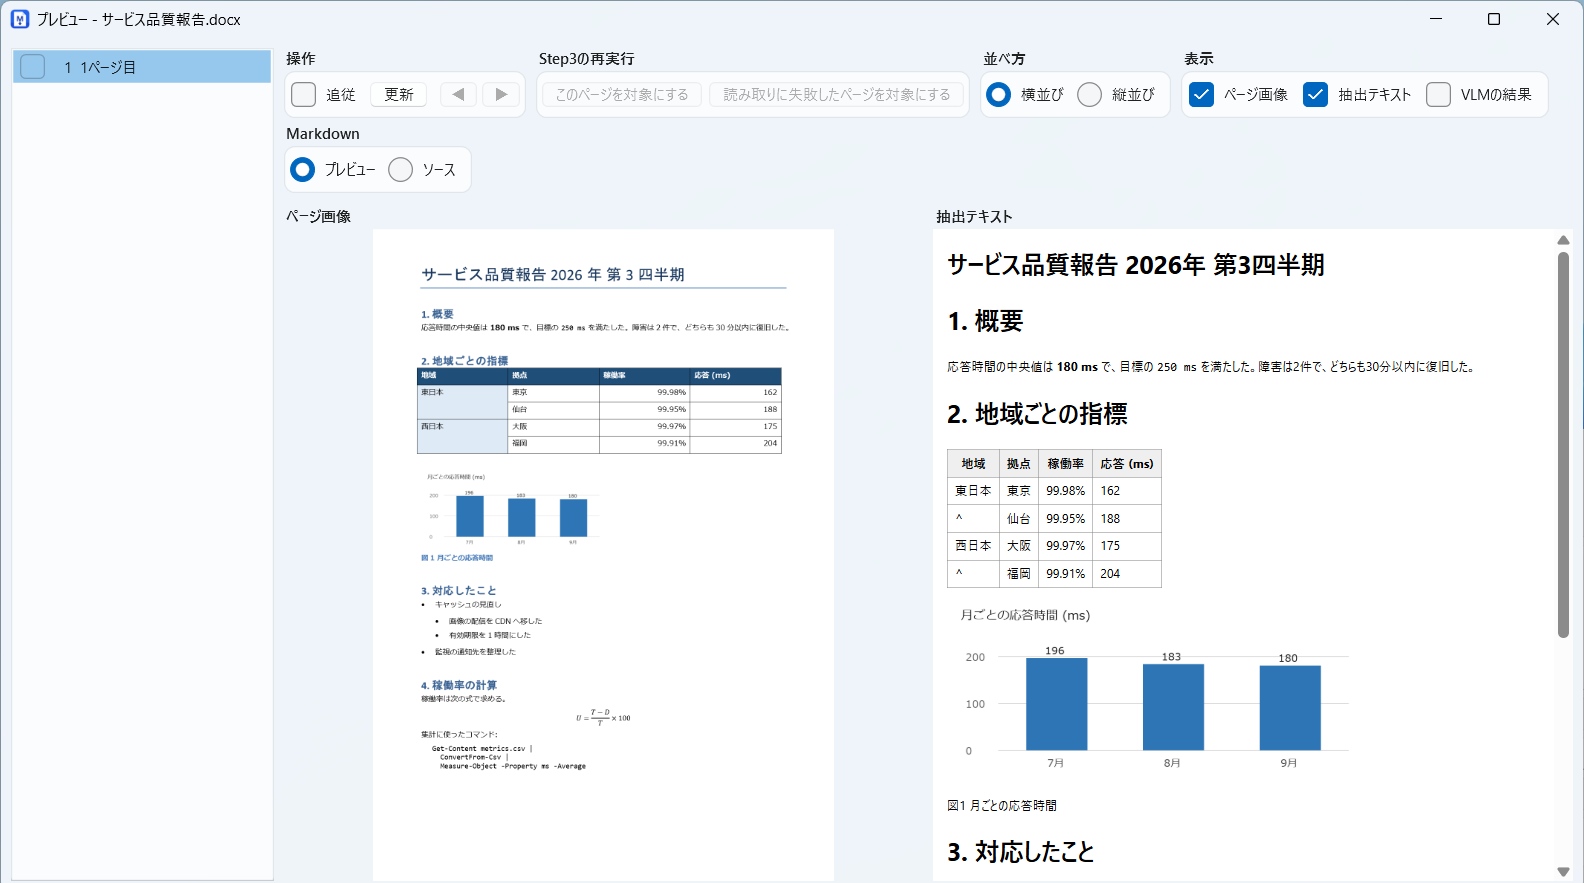
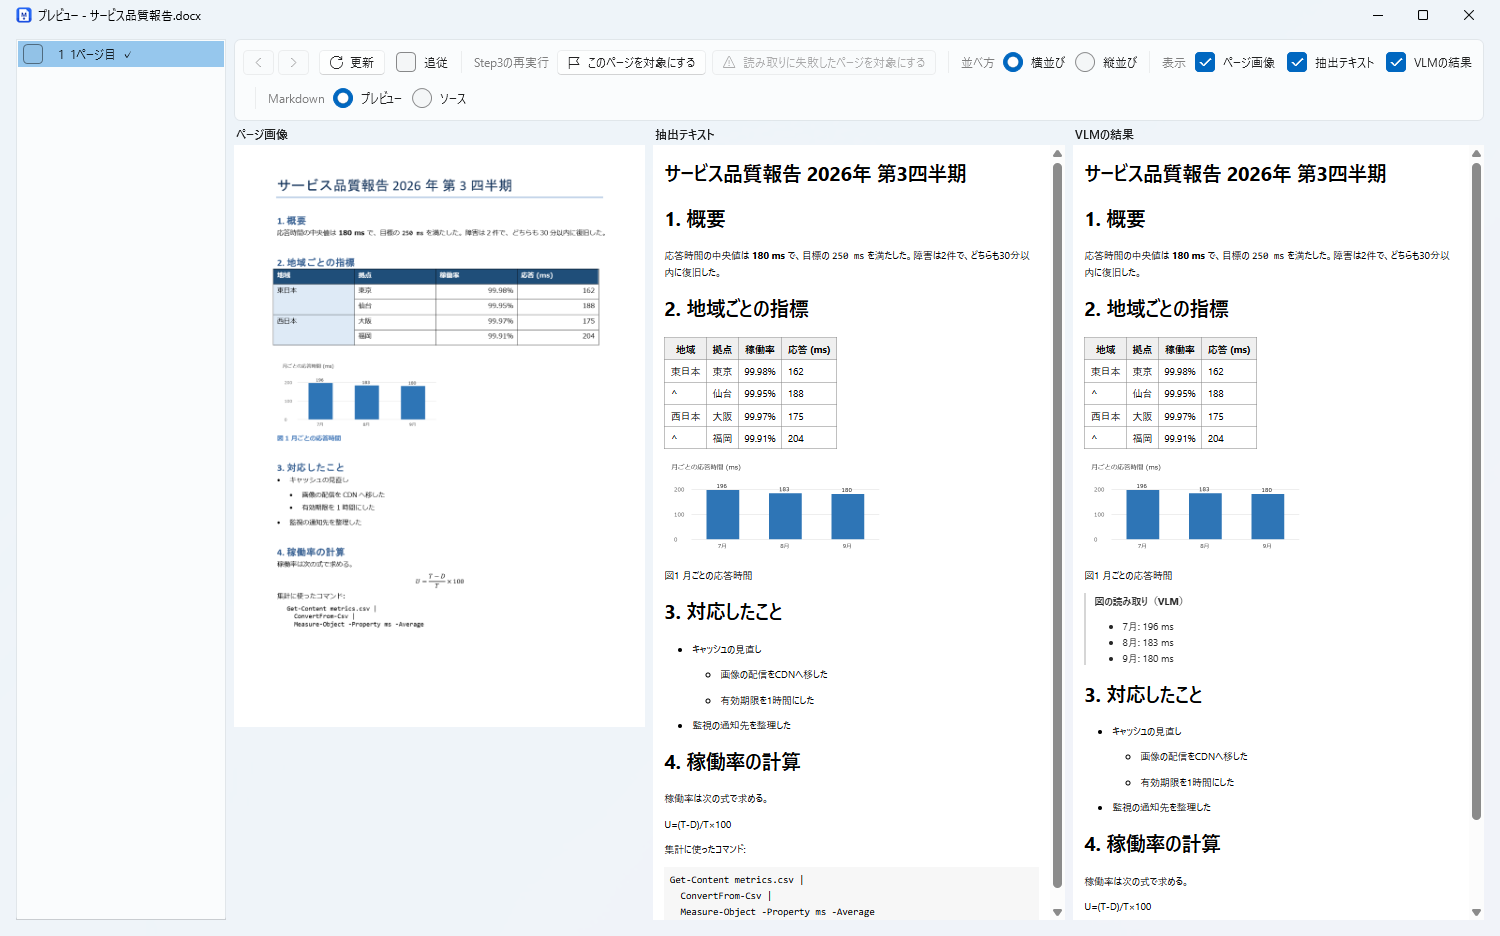
release: prepare MarkPortO 0.4.0
- Version 0.4.0.
- README (English and Japanese): presets, Step3 adding what the figures show,
  and external commands for PDF files; new screenshots of the main window and
  of the preview (a chart read by the VLM).
- Usage guide: a section on PDF files (MarkItDown or Docling is recommended).

diff --git a/README.ja.md b/README.ja.md
@@ -3,7 +3,7 @@
 [![License: GPL-3.0-only](https://img.shields.io/badge/license-GPL--3.0--only-blue.svg)](LICENSE)
 ![Platform: Windows 11](https://img.shields.io/badge/platform-Windows%2011-0078D4.svg)
 ![.NET 10](https://img.shields.io/badge/.NET-10-512BD4.svg)
-![Version](https://img.shields.io/badge/version-0.3.6-2ea44f.svg)
+![Version](https://img.shields.io/badge/version-0.4.0-2ea44f.svg)
 
 [English](README.md) | **日本語**
 
@@ -13,10 +13,12 @@ Word・Excel・PowerPoint・PDFを、**Markdownとページごとの画像に変
 
 ## できること
 
-- 文書の見出し・表・箇条書き・コード・数式などをMarkdownに変換
+- 文書の見出し・表・箇条書き・コード・数式などを、Officeのファイルから直接読んでMarkdownに変換
 - 元のページ画像と変換結果を並べて確認
+- 目的に合わせたプリセット：**閲覧用**（人が読む）と **RAG用**（言語モデルが読む）
+- 画像を読めるモデル（VLM）で、図・グラフ・図形の中身を書き足す。スキャンなどはページ全体を読み取る（任意）
 - フォルダごとの一括変換と、中断した処理の再開
-- 画像を読めるモデル（VLM）による読み取り（任意）
+- 種類ごとに外部コマンド（MarkItDown・Doclingなど）でMarkdownを作成。PDFにはこちらをおすすめします
 
 開発中です。変換後はプレビューで結果を確認してください。
 
@@ -28,18 +30,27 @@ Word・Excel・PowerPoint・PDFを、**Markdownとページごとの画像に変
 ## 基本の使い方
 
 1. ファイルまたはフォルダを追加します。ドラッグ＆ドロップも使えます。
-2. 出力先を選び、「開始」を押します。VLMを使わない場合はStep3をオフにします。
-3. 完了したファイルをダブルクリックして、結果を確認します。
+2. 必要なら「プリセット」で「閲覧用」か「RAG用」を選びます。Step1〜3のおすすめの設定が入ります（あとから変えられます）。
+3. 出力先を選び、「開始」を押します。VLMを使わない場合はStep3をオフにします。
+4. 完了したファイルをダブルクリックして、結果を確認します。
 
 出力先には文書ごとのフォルダが作られ、Markdownとページ画像が保存されます。
 
 VLMを使う場合は「設定」でVLM接続を設定します。外部サービスには文書の画像やテキストが送信され、料金がかかる場合があります。
 
+## VLMで図を読む（Step3）
+
+既定の「補足」では、本文・表・コードはStep1で文書から取り出したものをそのまま使い、VLMはStep1で取り出した画像・グラフ・図形だけを1つずつ読んで、図の直後に中身を書き足します。本文がほとんどないページとPDFはページ全体を読み、Step1で足りるページは送りません（文章だけの文書なら費用はかかりません）。「書き写し」を選ぶと、0.3.6までと同じく、すべてのページをVLMが書き起こします。
+
+## PDFについて
+
+内蔵の抽出は、PDFの文字を簡単に取り出すだけです（見出しは本文とつながり、表は文字の並びになります）。PDFには、外部コマンドの **MarkItDown** か **Docling** をおすすめします。ページ画像・Step3・プレビューはそのまま使え、スキャンしたPDFもStep3がオンならVLMが読み取ります。[詳しい使い方](docs/usage.ja.md#pdfについて)を参照してください。
+
 ## プレビュー
 
 ファイルをダブルクリックすると、プレビューが開きます。ページの画像とMarkdownを並べて表示するので、表・結合セル・箇条書き・コード・数式・図を、元のページと見比べられます。
 
-![プレビュー画面：Word文書のページ画像とMarkdown](docs/images/preview-document.ja.png)
+![プレビュー画面：Word文書のページ画像、Markdown、グラフの読み取りが足されたVLMの結果](docs/images/preview-document.ja.png)
 
 - ページ画像・抽出テキスト・VLMの結果から、表示するものを選べます。横並びと縦並び、Markdownの描画とソース表示も切り替えられます。
 - 左右の矢印キーでページを、◀ ▶ で一覧の前後のファイルを移動します。Ctrl＋ホイールで拡大・縮小します。

diff --git a/README.md b/README.md
@@ -3,7 +3,7 @@
 [![License: GPL-3.0-only](https://img.shields.io/badge/license-GPL--3.0--only-blue.svg)](LICENSE)
 ![Platform: Windows 11](https://img.shields.io/badge/platform-Windows%2011-0078D4.svg)
 ![.NET 10](https://img.shields.io/badge/.NET-10-512BD4.svg)
-![Version](https://img.shields.io/badge/version-0.3.6-2ea44f.svg)
+![Version](https://img.shields.io/badge/version-0.4.0-2ea44f.svg)
 
 **English** | [日本語](README.ja.md)
 
@@ -13,10 +13,12 @@ MarkPortO is a **Windows app that converts Word, Excel, PowerPoint and PDF files
 
 ## Features
 
-- Convert headings, tables, lists, code and equations into Markdown.
+- Convert headings, tables, lists, code and equations into Markdown, read directly from the Office file.
 - Compare the result with the original page images in a preview.
+- Choose a preset for the purpose: **For reading** (people read the Markdown) or **For RAG** (a language model reads it).
+- Optionally let an image-capable model (VLM) add what the figures, charts and shapes show, or read whole pages (scans).
 - Convert folders of documents and resume interrupted runs.
-- Optionally read pages with an image-capable model (VLM).
+- Use an external command (MarkItDown, Docling and so on) to write the Markdown of a kind of file; recommended for PDF files.
 
 Under development. Results vary with document layout, so check the preview after conversion.
 
@@ -37,18 +39,27 @@ You need **Windows 11** and the **.NET 10 Desktop Runtime**. Office documents al
 
 1. Add files or a folder, or drag them onto the app.
 2. Choose an output folder.
-3. Press **Start**. Turn off Step3 if you do not want to use the VLM.
-4. Double-click a completed file to preview the result.
+3. Choose a **Preset** if you like (**For reading** or **For RAG**). It puts the recommended settings of Step1 to Step3; you can still change them.
+4. Press **Start**. Turn off Step3 if you do not want to use the VLM.
+5. Double-click a completed file to preview the result.
 
 Each document gets a folder containing its Markdown (`.md`) and page images (`images/`). Open them from the file list's right-click menu.
 
 To use the VLM, set up a VLM connection in **Settings** and turn on Step3. External services receive document images and text, and may charge for usage.
 
+## Reading figures with a VLM (Step3)
+
+By default (**Add to the text**), the text, tables and code stay as Step1 read them from the document, and the VLM reads only the pictures, charts and shapes that Step1 saved, one by one. What they show is written after each figure. Pages with almost no text, and PDF files, are read whole; pages that Step1 covers are not sent at all, so a document of text costs nothing. **Read every page** has the VLM write out every page, as up to 0.3.6.
+
+## PDF files
+
+The built-in extraction takes the text of a PDF simply (headings run into the text, a table is a line of words). For PDF files, choose **MarkItDown** or **Docling** as an external command; the page images, Step3 and the preview still work, and a scanned PDF is read by the VLM when Step3 is on. See [Detailed usage](docs/usage.md#pdf-files).
+
 ## Preview
 
 Double-click a file to open the preview. The image of each page is shown next to its Markdown, so you can check tables, merged cells, lists, code, equations and pictures against the original.
 
-![The preview: the page image of a Word document and its Markdown](docs/images/preview-document.png)
+![The preview: the page image of a Word document, its Markdown, and the VLM result with what the VLM read in the chart](docs/images/preview-document.png)
 
 - Show the page image, the extracted text and the VLM result, side by side or stacked. The Markdown can be shown rendered or as source.
 - Move between pages with the arrow keys, and to the previous or next file with ◀ ▶. Ctrl+wheel zooms.

diff --git a/docs/usage.ja.md b/docs/usage.ja.md
@@ -357,6 +357,18 @@ markporto-cli check-connection --settings settings.json
 MarkItDown・Docling・Pandocなどを使って、Markdownを作成できます。
 使うツールは自分でインストールしてください。MarkPortOはインストールや更新を行いません。
 
+#### PDFについて
+
+MarkPortOの内蔵の抽出は、PDFの文字を簡単に取り出すだけです。見出しは本文とつながり、表はただの文字の並びになります。
+PDFは、MarkItDownかDoclingに任せることをおすすめします。
+
+- MarkItDown：速く、見出し・箇条書き・改行がよく残ります。
+- Docling：表を最もよく表にし、スキャンしたPDFも読み取れます。時間はかかります。
+- PandocはPDFを読み取れません。
+
+外部コマンドを使っても、ページ画像の保存、Step3（VLM）での読み取り、プレビューは使えます。
+スキャンしたPDFでコマンドが文字を返さないときも、Step3がオンならVLMが読み取ります（下の「内蔵の抽出との違い」を参照）。
+
 #### 登録する
 
 1. 「設定 > 抽出コマンドの設定」を開きます。

diff --git a/docs/usage.md b/docs/usage.md
@@ -322,6 +322,16 @@ The location can be changed with the environment variable `MARKPORTO_SETTINGS`. 
 
 For a kind of file, the Markdown can be written by a program that you installed yourself (MarkItDown, Docling, Pandoc and so on). MarkPortO does not install or update it; it only runs it, without a shell, with the arguments that you give.
 
+#### PDF files
+
+The built-in extraction of MarkPortO takes the text of a PDF simply: headings run into the text, and a table is a line of words. For PDF files, MarkItDown or Docling is recommended.
+
+- MarkItDown: fast; it keeps headings, lists and line breaks well.
+- Docling: makes the best tables and reads scanned PDFs too; it takes longer.
+- Pandoc cannot read PDF files.
+
+With a command, the page images, Step3 (the VLM) and the preview still work. When the command gives no text for a scanned PDF, the VLM reads it if Step3 is on (see "How it differs from the built-in extraction" below).
+
 #### Registering a command
 
 1. Open **Settings > Extractor settings**.
